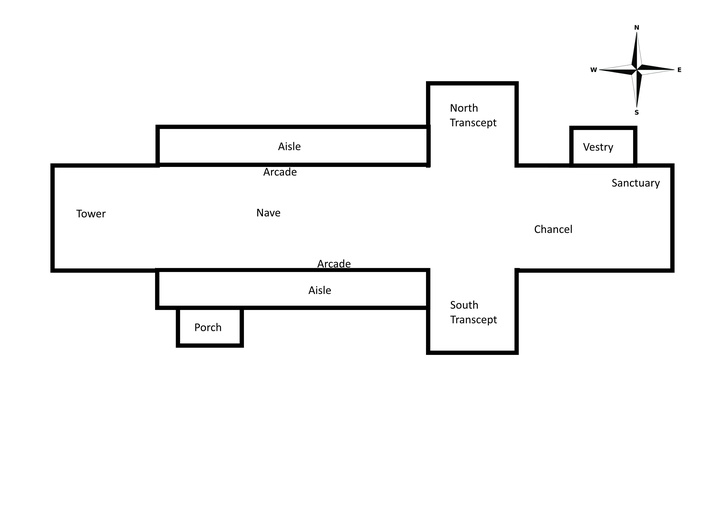
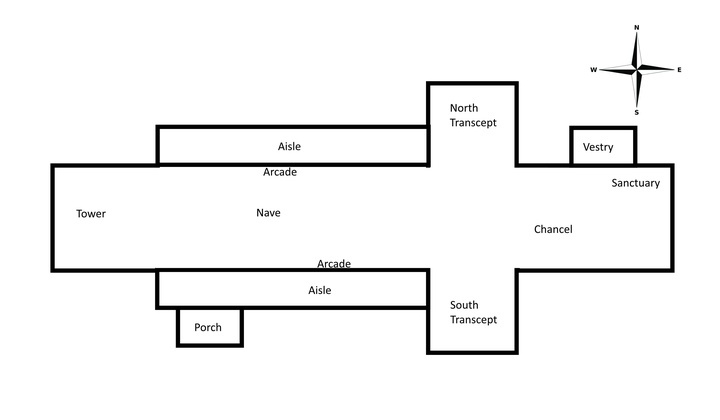
Updates

diff --git a/churches/17.html b/churches/17.html
@@ -352,15 +352,22 @@ Copyright &copy;
 </nav>
 
 <h1>Appendix D - Architectural Structure</h1>
-<p>The earliest Christians worshipped in private houses, often in secret. With the victory of the Roman emperor Constantine at the Battle of Milvian Bridge in 312 AD, Christianity became a lawful and then the privileged religion of the Roman Empire. With the religion lawful, Christian architecture was made to correspond to civic and imperial forms, and so the Basilica, a large rectangular meeting hall (with a nave and aisles and sometimes galleries and clerestories), became the model for churches. While civic basilicas had apses at either end, the Christian basilica usually had a single apse where the bishop and presbyters sat in a dais behind the altar. While pagan basilicas had as their focus a statue of the emperor, Christian basilicas focused on the Eucharist as the symbol of the eternal, loving and forgiving God. The first very large Christian churches, were built in Rome in the early 4th century.  Since then, the plan of a church has essentially remained the same.</p>
+<p>The earliest Christians worshipped in private houses, often in secret.  It was the victory achieved by the Roman emperor Constantine I at the Battle of Milvian Bridge in 312 AD, that caused Christianity to become a lawful and then the privileged religion of the Roman Empire.  With the religion lawful, Christian architecture was made to correspond to civic and imperial forms, and so the Basilica, a large rectangular meeting hall (with a nave and aisles and sometimes galleries and clerestories), became the model for churches.</p>
+<p>The civic basilicas had apses at either end, whereas the Christian basilica usually had a single apse where the bishop and presbyters sat in a dais behind the altar.  While pagan basilicas had as their focus a statue of the emperor, Christian basilicas focused on the Eucharist as the symbol of the eternal, loving and forgiving God.  The first very large Christian churches, were built in Rome in the early 4th century.  Since then, the plan of a church has essentially remained the same.</p>
 <p><img src="images/2-styles-church.jpg"></p>
 <h2>Direction</h2>
-<p>Churches are always oriented east to west with the chancel, sanctuary and altar in the east.  This is because the east faces towards the holy city of Jerusalem which is where, in medieval writing, God’s presence was said to be strongest.  It also links to the Christian story of Jesus rising from the dead at sunrise on Easter day.  The window in the east end of the building also lets in the rising sun symbolising God as the light of the world.  Although this would also serve the practical function of lighting up a dark church in medieval times when candles were less common and electricity didn’t exist.</p>
-<p>The church at Ironbridge (St Luke) is an exception to this because the land at the west end would not support the tower.  Also the church at Bridgnorth (St Mary Magdalene) is the other notable exception as it is aligned north-south.</p>
+<p>Churches are oriented east to west with the chancel, sanctuary and altar in the east.  This is because the east faces towards the holy city of Jerusalem which is where, in medieval writing, God’s presence was said to be strongest.  It also links to the Christian story of Jesus rising from the dead at sunrise on Easter day.  The window in the east end of the building also lets in the rising sun, symbolising God as the light of the world.  Although this would also serve the practical function of lighting up a dark church in medieval times when candles were less common and other forms of lighting did not exist.</p>
+<p>There are exceptions in Shropshire, the church at Ironbridge (St Luke) is oriented west to east as the land at the west end would not support the tower.  Also, the church at Bridgnorth (St Mary Magdalene) is aligned north to south to provide a better aesthetic to the street.</p>
+<p><img src="images/2022-02-19_15_44_12_DSC_0207.jpg" width="400"></p>
+<p data-featured="" style="text-align:center; font-style:italic;">St Luke, Ironbridge - West-East Orientation</p>
+<p><img src="images/2024-08-31_14_20_03_DSC_0605.jpg" width="400"></p>
+<p data-featured="" style="text-align:center; font-style:italic;">St Mary Magdalene, Bridgnorth - North-South Orientation</p>
 <h2>Shape</h2>
-<p>Churches are most often built in a cruciform shape (cross shaped).  The reasoning for this is simple – the cross represents the cross in Christian teachings.</p>
+<p>Churches are often built in a cruciform shape (cross shaped).  The reasoning for this is simple – the cross represents the cross in Christian teachings.</p>
+<p><img src="images/2020-03-01_16_09_46_DSC_6695.jpg" width="400"></p>
+<p data-featured="" style="text-align:center; font-style:italic;">St Peter, Wrockwardine - Cruciform Church</p>
 <h2>Tower</h2>
-<p>The church tower is the part of the church which dominates the landscape.  The tower is often situated at the west end of the nave.  In some churches the tower is situated in the centre above the crossing.  Church towers have many styles and designs, and some include spires.</p>
+<p>The church tower is the part of the church which dominates the landscape.  The tower is most often situated at the west end of the nave.  Although, in some churches the tower is situated in the centre above the crossing.  Church towers have many styles and designs, and some include spires.</p>
 <p>Cruciform churches, with a central tower and transepts, are unusual in villages, and tend to occur more frequently in small towns.  There are ten churches of this layout in Shropshire:</p>
 <ul>
 <li>Church Stretton</li>
@@ -374,22 +381,29 @@ Copyright &copy;
 <li>Wistanstow</li>
 <li>Wrockwardine</li>
 </ul>
-<p>The church tower has many functions, the primary purpose being to denote the location of the church.  Most towers contain bells which provide direct and audible communication between the church and the parish, church towers have other functions.  Some towers were built as lanterns to allow light into the body of the church, whereas others maintained a light to provide direction for night-time travel.  Saxon or Norman towers were also built as accommodation and refuge in times of unrest.  After the Norman Conquest numerous towers were built onto churches, these were often massive, like towers on contemporary castles, and where there is an absence of a west doorway this may indicate a defensive structure.</p>
-<p>The roof of Alberbury church tower is unique to the county in that it is a saddleback type of roof.</p>
+<p>The church tower has many functions, the primary purpose being to denote the location of the church.  Most towers contain bells which provide a direct and audible communication between the church and the parish.  But church towers sometimes have other functions.  Some towers were built as lanterns to allow light into the body of the church, whereas others maintained a light to provide direction for night-time travel.  Saxon or Norman towers were also built as accommodation and refuge in times of unrest.  After the Norman Conquest numerous towers were built onto churches, these were often massive, like towers on contemporary castles, and where there is an absence of a west doorway this may indicate a defensive structure.</p>
+<p>The tower of Alberbury church is unique to the county in that it hass a saddleback type of roof.</p>
 <p><img src="images/2021-04-17_14_50_05_DSC_9432.jpg" width="400"></p>
 <p data-featured="" style="text-align:center; font-style:italic;">St Michael, Alberbury - Saddleback Roof Tower</p>
 <p>The tower of Hodnet church is also unique in Shropshire as it is octagonal.</p>
 <p><img src="images/2019-03-02_15_39_58_DSC_3481.jpg" width="400"></p>
 <p data-featured="" style="text-align:center; font-style:italic;">St Luke, Hodnet - Octagonal Tower</p>
+<p>The tower of Eaton-under-Heywood church is located mid-way along the south side of the nave.</p>
+<p><img src="images/2022-04-23_15_12_49_DSC_1218.jpg" width="400"></p>
+<p data-featured="" style="text-align:center; font-style:italic;">St Edith, Eaton-under-Heywood - Tower on South of Nave</p>
 <h2>Spire</h2>
-<p>Church spires are tall, tapering structures perched atop church towers or roofs. They primarily serve as visual symbols of heavenly aspiration—directing worshippers' eyes toward God.</p>
+<p>Church spires are tall, tapering structures perched atop church towers or roofs. They primarily serve as visual symbols of heavenly aspiration - directing worshippers' eyes toward God.</p>
 <p>Spires are not common in Shropshire.</p>
-<p>The spire of St Mary, Shropshire, rises 222ft to 223ft from the ground. It is widely recognised as one of the tallest parish church spires in England.</p>
+<p>The spire of St Mary the Virgin, Shrewsbury, rises 222ft to 223ft from the ground.  It is widely recognised as one of the tallest parish church spires in England.</p>
+<p><img src="images/2022-03-12_10_55_25_DSC_0434.jpg" width="200"></p>
+<p data-featured="" style="text-align:center; font-style:italic;">St Mary the Virgin, Shrewsbury - Spire</p>
 <h2>Porch</h2>
 <p>Ancient churches usually stand to the north of the original village, and so the south door is the main entrance. In the Middle Ages many ceremonies took place at the church door, including parts of the baptism and marriage services.  Schooling, penance, the churching of women and the coroners court also took place at the church door.  Typically, it was not until the 14th Century that porches were constructed to give shelter (usually at the south door).</p>
-<p>Some of the finest medieval porches in Shropshire can be seen at Munslow and Billingsley.</p>
+<p>Some of the finest medieval porches in Shropshire can be seen at Munslow (14th Century) and Billingsley (14th Century).</p>
 <p><img src="images/2019-09-28_13_26_29_DSC_0050.jpg" width="400"></p>
 <p data-featured="" style="text-align:center; font-style:italic;">St Michael, Munslow - Porch</p>
+<p><img src="images/2022-09-17_14_16_02_DSC_4191.jpg" width="400"></p>
+<p data-featured="" style="text-align:center; font-style:italic;">St Mary, Billingsley - Porch</p>
 <p>There are several good examples of porches in Shropshire, for example, the porch at Cardington dates from 1639.</p>
 <p><img src="images/2020-02-08_11_55_02_DSC_6349.jpg" width="200"></p>
 <p data-featured="" style="text-align:center; font-style:italic;">St James, Cardington - Porch</p>
@@ -402,13 +416,21 @@ Copyright &copy;
 <p>[^2]: A person who repents their sins and seeks forgiveness from God.</p>
 <h2>Baptistry</h2>
 <p>The baptistry is a separate, transitional space used by those who are not yet members of the church.  In most churches the baptistry is the area close the narthex where the font is located, at the west end of the nave.</p>
-<p>Norton-in-Hales church has an octagonal baptistery (a baptistery is commonly octagonal in plan, a visual metaphor for the number eight, which symbolised a new beginning in Christian numerology).</p>
+<p>Norton-in-Hales church has a separate octagonal baptistry (a baptistry is commonly octagonal in plan, a visual metaphor for the number eight, which symbolised a new beginning in Christian numerology).</p>
 <p><img src="images/2021-06-12_10_36_08_DSC_9598.jpg" width="400"></p>
 <p data-featured="" style="text-align:center; font-style:italic;">St Chad, Norton-in-Hales - Baptistry</p>
 <h2>Doors</h2>
-<p>TBD</p>
+<h3>Main Door</h3>
+<p>The main door for the congregation is generally located at the west end of the church, either in the west wall or the south wall of the nave.  The door is usually made of wood, with metal decoration.</p>
 <p><img src="images/2023-01-28_14_27_06_DSC_7396.jpg" width="200"></p>
 <p data-featured="" style="text-align:center; font-style:italic;">St Peter, Worfield - Medieval Doors</p>
+<h3>Priest Door</h3>
+<p>The priest door is a small door located in the south wall of the chancel which allows the clergy direct access to the sanctuary and vestry without the need to pass through the nave.</p>
+<p><img src="images/2026-03-18_12_37_09_DSC_4069.jpg" width="200"></p>
+<p data-featured="" style="text-align:center; font-style:italic;">St Mark, Knockin - Priest Door</p>
+<h3>Devil's Door</h3>
+<p><img src="images/2020-11-21_15_16_32_DSC_9078.jpg" width="200"></p>
+<p data-featured="" style="text-align:center; font-style:italic;">St Peter, Stanton Lacy - Devil's Door</p>
 <h2>Nave</h2>
 <p>Derived from the Latin word 'navis', meaning ship.  It was thought that the nave roof resembled an upside down ship, or the Ark of Salvation.</p>
 <p>The nave is the main body of the church.  Originally, the nave was unconsecrated and its maintenance was the responsibility of the congregation.  In the early days of the church, the nave was used for many functions: it was the scene of trial by ordeal [^3], storage space for the arms which every parish had to provide (the regimental colours found in many churches are a reminder of this) and a venue for guild plays, processions, church ales [^4] and business.</p>